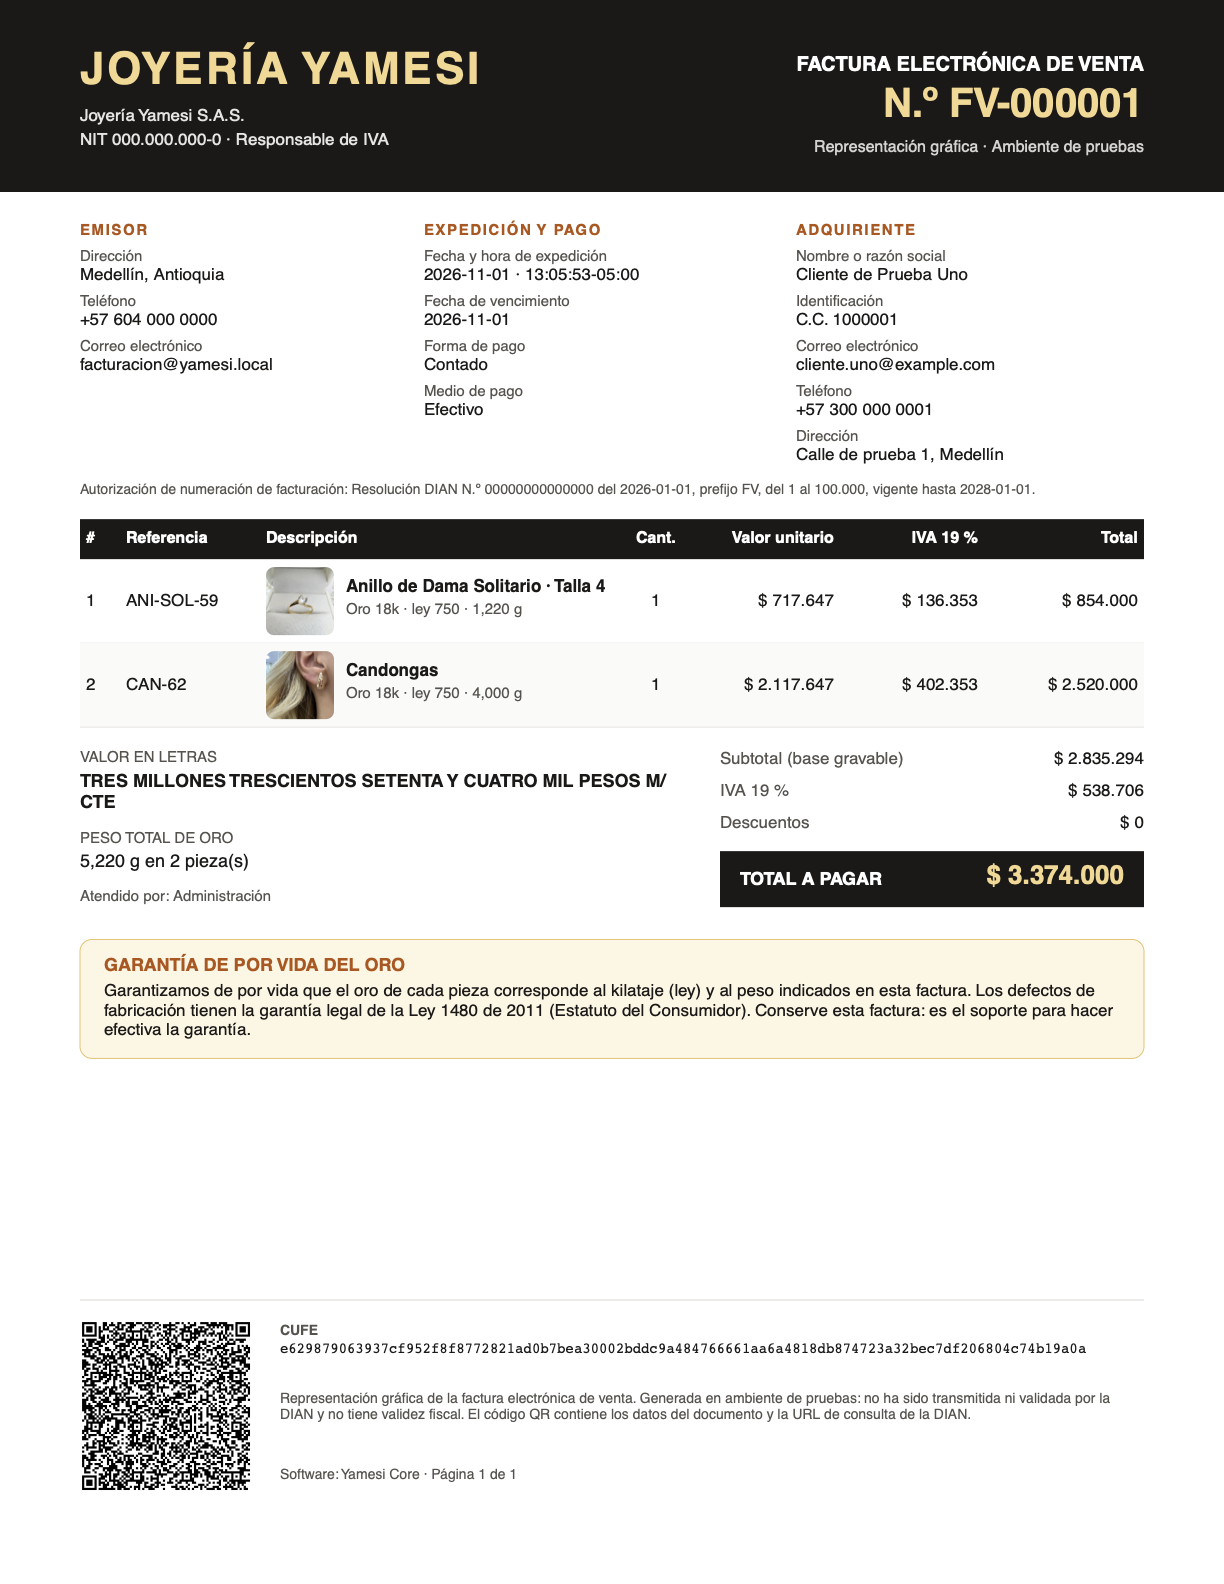
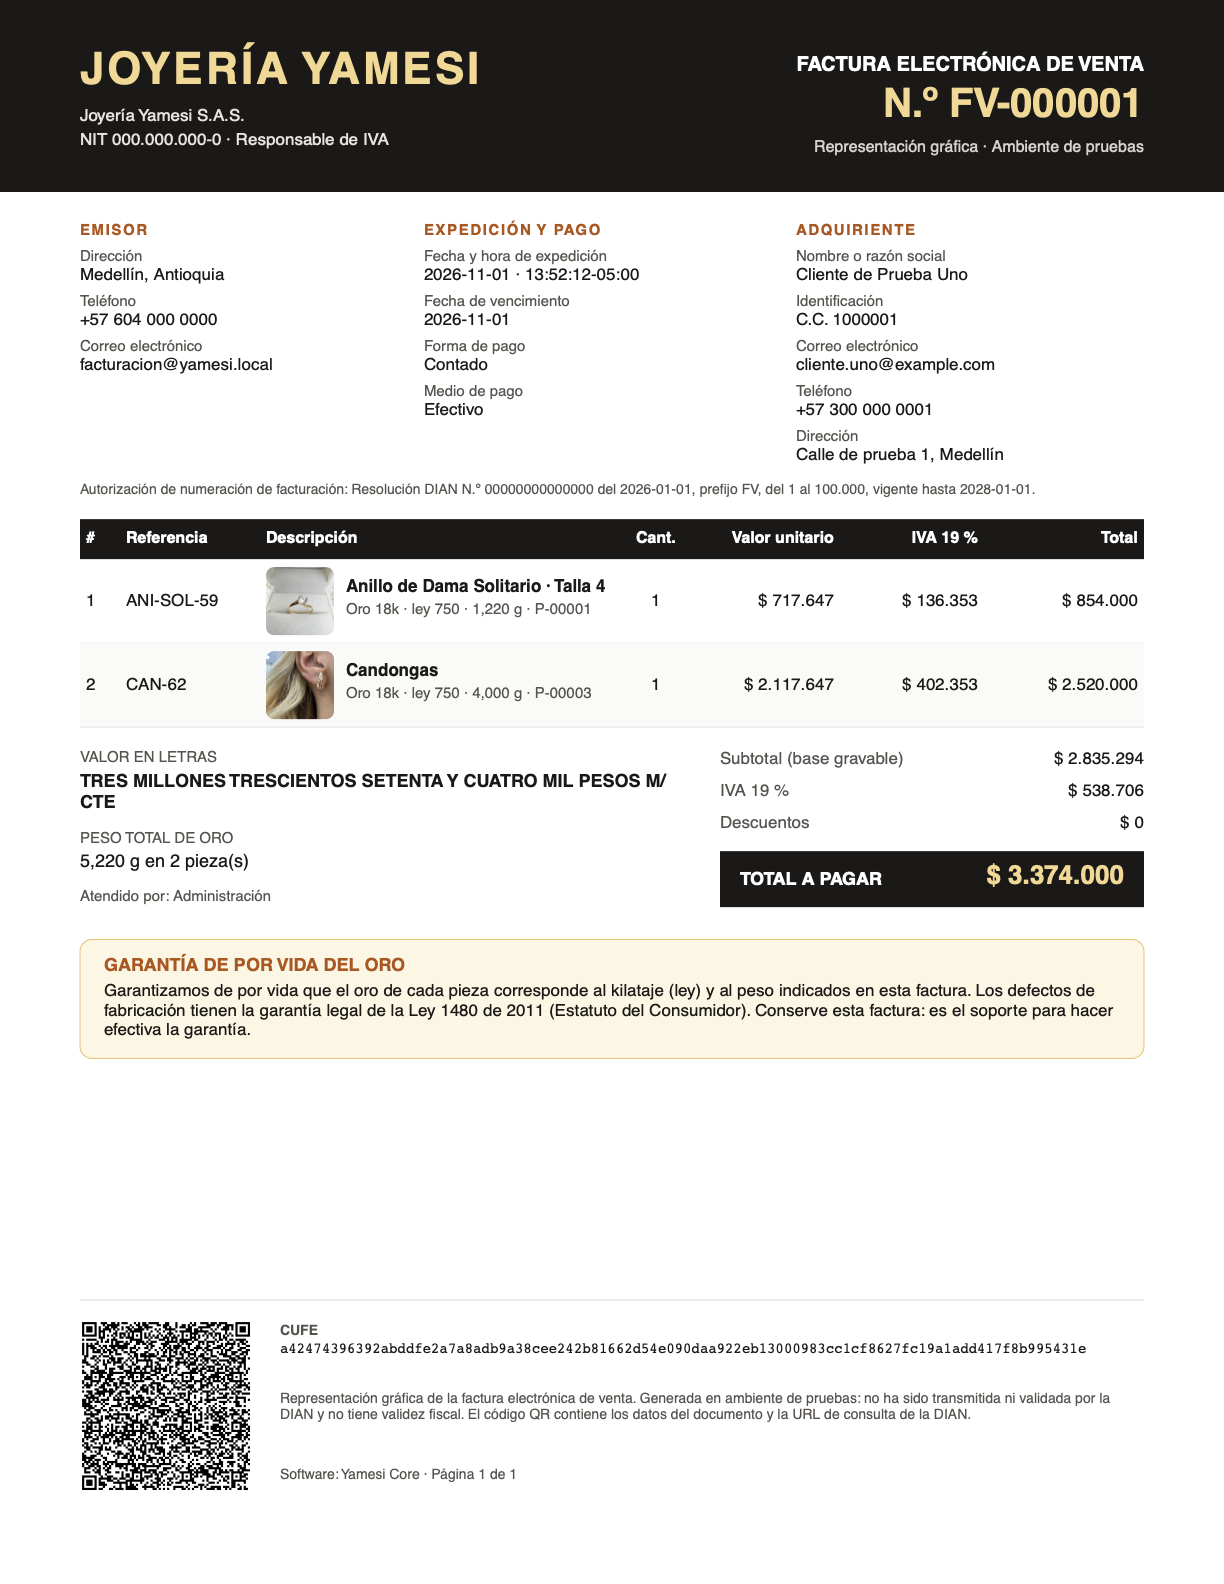
fix(pieces): a catalog reference can have several units; each piece keeps its serial
149 of the store's 1,000 catalog products have more than one unit in
stock, so the reference is a product code, not a piece id. Migration 006
drops its uniqueness; the invoice prints the reference and the piece
serial (P-00001) on every line.

diff --git a/backend/src/pieces/pieces.module.ts b/backend/src/pieces/pieces.module.ts
@@ -82,12 +82,6 @@ const UPDATE_COLUMNS: Record<keyof UpdatePieceInput, string> = {
   price: 'price',
 };
 
-const referenceTaken = (error: { code?: string; constraint?: string }) => {
-  if (error.code === '23505' && error.constraint === 'pieces_reference_key') {
-    throw new AppError(409, 'REFERENCE_TAKEN', 'Another piece already uses this reference');
-  }
-  throw error;
-};
 
 const listQuerySchema = z.object({ status: z.enum(['IN_STOCK', 'SOLD']).optional() });
 
@@ -190,8 +184,8 @@ export class PiecesService {
         });
       }
 
-      const { rows } = await client
-        .query<{ id: number }>(
+      // reference is the catalog code (several units can share it); sku is this physical piece's serial.
+      const { rows } = await client.query<{ id: number }>(
           `INSERT INTO pieces (name, reference, size, category, lot_id, gold_mg, labor_cost, price, image_key, created_by)
            VALUES ($1, $2, $3, $4, $5, $6, $7, $8, $9, $10)
            RETURNING id`,
@@ -207,8 +201,7 @@ export class PiecesService {
             imageKey,
             actor.id,
           ],
-        )
-        .catch(referenceTaken);
+        );
 
       await this.audit.record(client, {
         actorId: actor.id,
@@ -230,9 +223,7 @@ export class PiecesService {
       const before = await this.lockInStock(client, id);
       const fields = Object.keys(input) as Array<keyof UpdatePieceInput>;
       const assignments = fields.map((field, index) => `${UPDATE_COLUMNS[field]} = $${index + 2}`);
-      await client
-        .query(`UPDATE pieces SET ${assignments.join(', ')} WHERE id = $1`, [id, ...fields.map((field) => input[field])])
-        .catch(referenceTaken);
+      await client.query(`UPDATE pieces SET ${assignments.join(', ')} WHERE id = $1`, [id, ...fields.map((field) => input[field])]);
 
       await this.audit.record(client, {
         actorId: actor.id,

diff --git a/backend/test/e2e/inventory.e2e-spec.ts b/backend/test/e2e/inventory.e2e-spec.ts
@@ -82,13 +82,13 @@ describe('Gold lots and pieces', () => {
     expect(response.body.imageUrl).toMatch(/^memory:\/\/pieces\/.+\.png$/);
     expect(await remainingMg(lotId)).toBe(50_000 - 3_250);
 
-    // A reference identifies one piece; the rejected request rolls back and leaves the lot untouched.
-    const duplicate = await createPieceRequest({ ...fields, reference: 'AN-DAM-172' });
-    expect(duplicate.status).toBe(409);
-    expect(duplicate.body.error.code).toBe('REFERENCE_TAKEN');
-    expect(await remainingMg(lotId)).toBe(50_000 - 3_250);
+    // A reference is a catalog code: a second unit of the same product shares it, with its own serial and gold.
+    const secondUnit = await createPieceRequest({ ...fields, reference: 'AN-DAM-172' });
+    expect(secondUnit.status).toBe(201);
+    expect(secondUnit.body).toMatchObject({ sku: 'P-00002', reference: 'AN-DAM-172' });
+    expect(await remainingMg(lotId)).toBe(50_000 - 2 * 3_250);
 
-    // Empty optional form fields mean "no reference", so pieces without one do not collide.
+    // Empty optional form fields mean no reference and no size.
     const plain = await createPieceRequest({ ...fields, reference: '', size: '' });
     expect(plain.status).toBe(201);
     expect(plain.body).toMatchObject({ reference: null, size: null });
@@ -134,7 +134,7 @@ describe('Gold lots and pieces', () => {
       after: { price: 945_000, size: 'Talla 7', name: 'Anillo Dama' },
     });
 
-    expect((await edit(piece, { reference: 'an-dam-171' })).body.error.code).toBe('REFERENCE_TAKEN');
+    expect((await edit(piece, { reference: 'an-dam-171' })).body).toMatchObject({ reference: 'AN-DAM-171' });
     expect((await edit(piece, { grams: 9 })).status).toBe(400);
     expect((await edit(piece, {})).status).toBe(400);
     expect((await edit(piece, { price: 1 }, sellerToken)).status).toBe(403);

diff --git a/backend/src/invoices/invoice-pdf.ts b/backend/src/invoices/invoice-pdf.ts
@@ -245,7 +245,8 @@ export function renderInvoicePdf(data: InvoicePdfData): Promise<Buffer> {
       const textTop = withPhotos ? y + rowHeight / 2 - 11 : y + 5;
       doc.font('Helvetica-Bold').fontSize(8.5).text(description, textX, textTop, { width: textWidth, lineBreak: false, ellipsis: true });
       doc.font('Helvetica').fontSize(7.5).fillColor(COLOR.muted)
-        .text(`Oro ${item.karat}k · ley ${fineness(item.karat)} · ${grams.format(item.grams)} g`, textX, textTop + 12, { width: textWidth });
+        // With a catalog reference in its own column, the piece's serial identifies the exact unit sold.
+        .text(`Oro ${item.karat}k · ley ${fineness(item.karat)} · ${grams.format(item.grams)} g${item.reference ? ` · ${item.sku}` : ''}`, textX, textTop + 12, { width: textWidth });
       doc.moveTo(PAGE.left, y + rowHeight).lineTo(PAGE.right, y + rowHeight).lineWidth(0.5).strokeColor(COLOR.line).stroke();
       y += rowHeight;
     });

diff --git a/README.md b/README.md
@@ -43,7 +43,7 @@ flowchart LR
 ```
 
 1. The admin registers a gold lot: supplier, grams and cost per gram.
-2. Each piece is created with its catalog reference, size, gold weight, labor and price, and a photo stored in S3. Its gold leaves the lot in the same transaction.
+2. Each piece is created with its catalog reference, size, gold weight, labor and price, and a photo stored in S3. Its gold leaves the lot in the same transaction. The reference is the catalog's product code and several units can share it (149 of the store's 1,000 catalog products have more than one in stock); each physical piece keeps its own serial (`P-00001`), which the invoice prints next to the reference.
 3. In the inventory portal the admin searches the catalog, edits a piece in stock and replaces its photo. Every change is audited with its old value; sold pieces stay as invoiced.
 
 ![Inventory portal: catalog with photos, stock value and filters](docs/screenshots/02-inventory-gold-lots.png)
@@ -186,7 +186,7 @@ What the PDF carries, and where the requirement comes from:
 | Buyer: name, document type and number (or "consumidor final" 222222222222), email, phone, address | Art. 617 c); the email is where an electronic invoice is delivered |
 | Issue date and time with UTC offset, due date, payment form (contado) and means, card or transfer reference | Art. 617 e); Resolución DIAN 000165 de 2023 |
 | Numbering authorization: resolution number, date, prefix, range and validity | Resolución 000165 de 2023 |
-| Each piece: catalog reference, description with size or length, karat (18k only, the store's gold; 24k is too soft to make jewelry), fineness ("ley 750" for 18k), gold weight, unit value before VAT, VAT, total | Art. 617 f); prices include VAT, so each line is split into base + 19% VAT, which always add up to the price |
+| Each piece: catalog reference and piece serial, description with size or length, karat (18k only, the store's gold; 24k is too soft to make jewelry), fineness ("ley 750" for 18k), gold weight, unit value before VAT, VAT, total | Art. 617 f); prices include VAT, so each line is split into base + 19% VAT, which always add up to the price |
 | Subtotal, VAT, total, and the total in words ("TRES MILLONES DE PESOS M/CTE") | Art. 617 g) |
 | Lifetime warranty on the gold (karat and weight), plus the legal warranty of Ley 1480 de 2011 | Store policy; text configurable with `GOLD_WARRANTY_TEXT` |
 | CUFE (SHA-384) and a QR with the document data and the DIAN lookup URL, on every page | Resolución 000165 de 2023, technical annex 11.1.6 and 11.1.7 |
